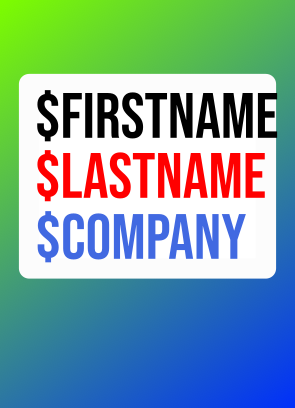
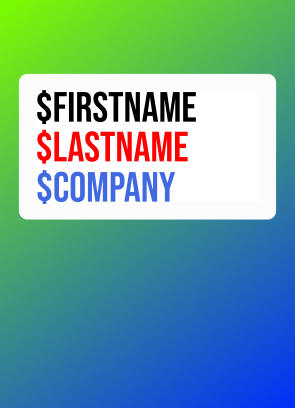
use design template

Changed region(s): [[0.061, 0.1765, 0.9458, 0.7059], [0.061, 0.1765, 0.0915, 0.2059]]

diff --git a/bin/main.js b/bin/main.js
@@ -117,8 +117,8 @@ class MainNode {
 		process.stdout.write(Std.string(v9));
 		process.stdout.write("\n");
 		sys_FileSystem.createDirectory(const_Folder.EXPORT);
-		sys_FileSystem.createDirectory(const_Folder.EXPORT + "/test");
 		sys_FileSystem.createDirectory(const_Folder.EXPORT + "/qr");
+		sys_FileSystem.createDirectory(const_Folder.EXPORT + "/tag");
 	}
 	generateQR4Attendees() {
 		let content = js_node_Fs.readFileSync("data/attendees_00100.json",{ encoding : "utf8"});
@@ -140,7 +140,22 @@ class MainNode {
 			let i = _g2++;
 			let _attendees = attendeesArr[i];
 			this.createQRCodes(_attendees,i);
+			this.createTag(_attendees,i);
+			this.combineQrAndTag(_attendees,i);
 		}
+	}
+	combineQrAndTag(attendee,i) {
+	}
+	createTag(attendee,i) {
+		let str = "00000";
+		let temp = str.length - ("" + i).length;
+		let newID = HxOverrides.substr(str,0,temp) + i;
+		let svg = "<svg>" + attendee.userName + "</svg>";
+		let svg1 = js_node_Fs.readFileSync("template/nametag_cleaner_v01.svg",{ encoding : "utf8"});
+		svg1 = StringTools.replace(svg1,"$company","" + attendee.company);
+		svg1 = StringTools.replace(svg1,"$lastname","" + attendee.lastName);
+		svg1 = StringTools.replace(svg1,"$firstname","" + attendee.firstName);
+		js_node_Fs.writeFileSync("" + const_Folder.EXPORT + "/tag/" + newID + "_tag_" + attendee.userName + ".svg",svg1);
 	}
 	createQRCodes(attendee,i) {
 		let str = "00000";
@@ -171,6 +186,12 @@ class Std {
 	}
 }
 Std.__name__ = true;
+class StringTools {
+	static replace(s,sub,by) {
+		return s.split(sub).join(by);
+	}
+}
+StringTools.__name__ = true;
 class const_Folder {
 }
 const_Folder.__name__ = true;
